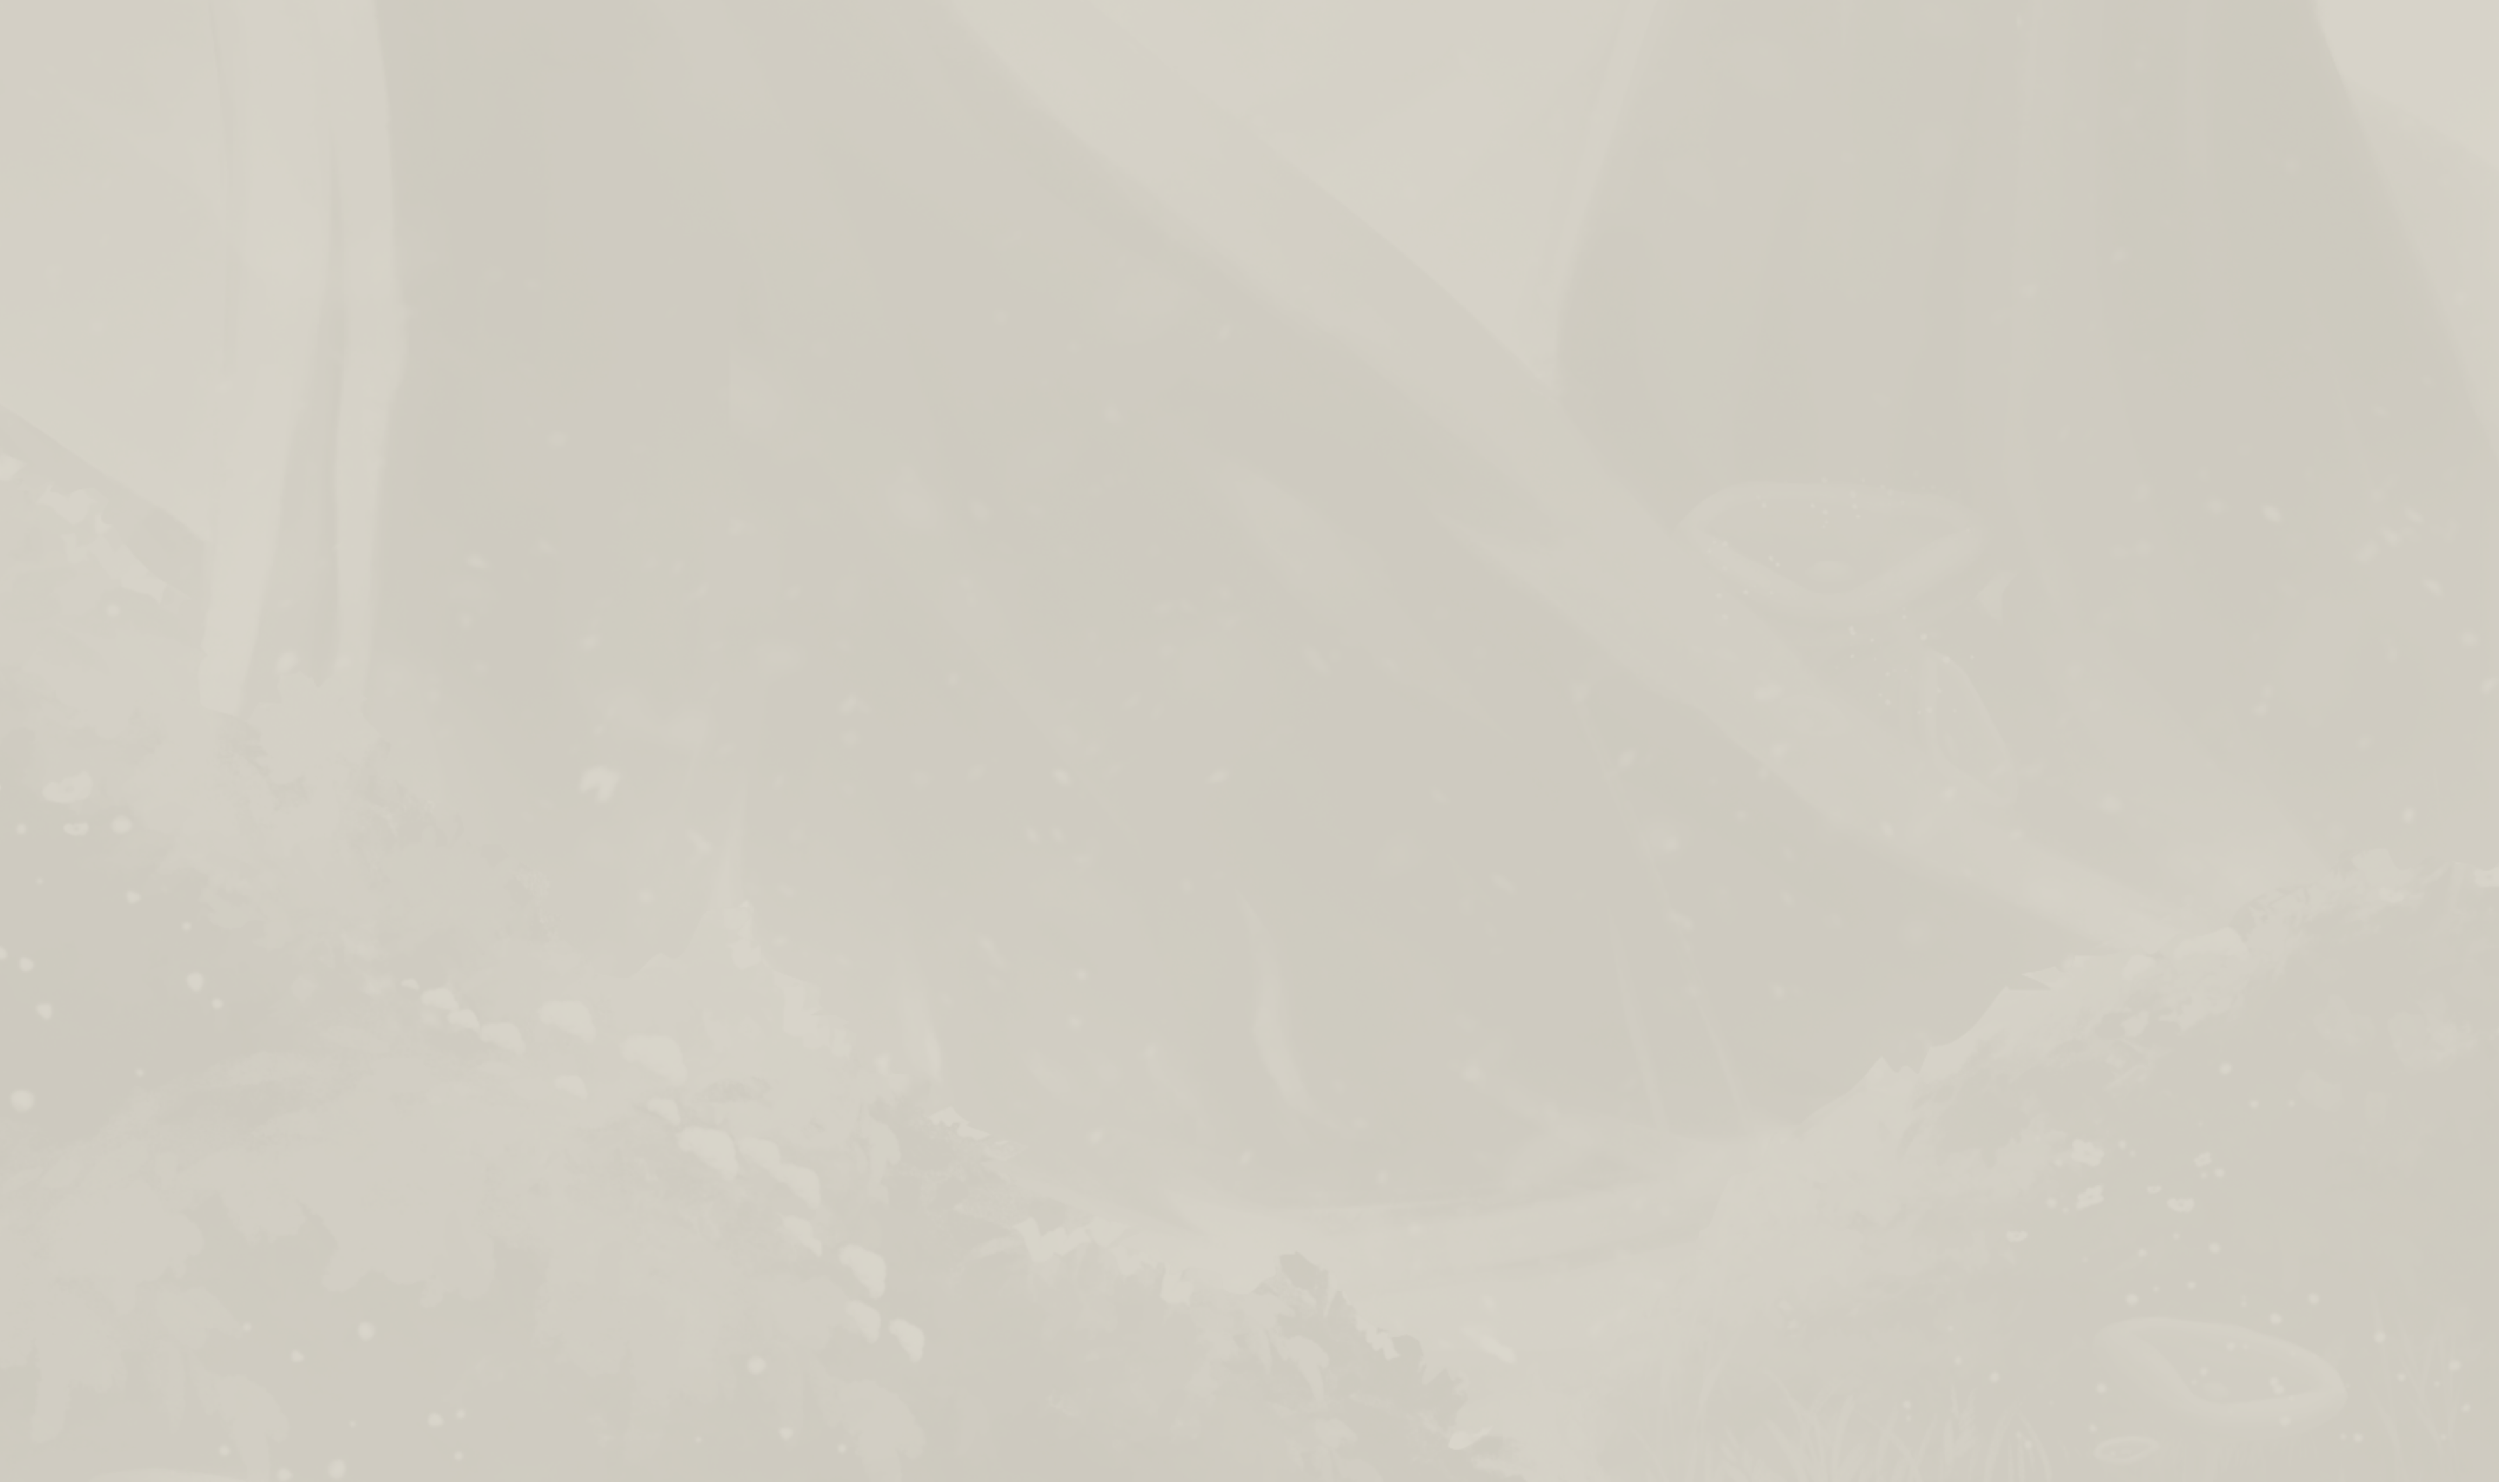
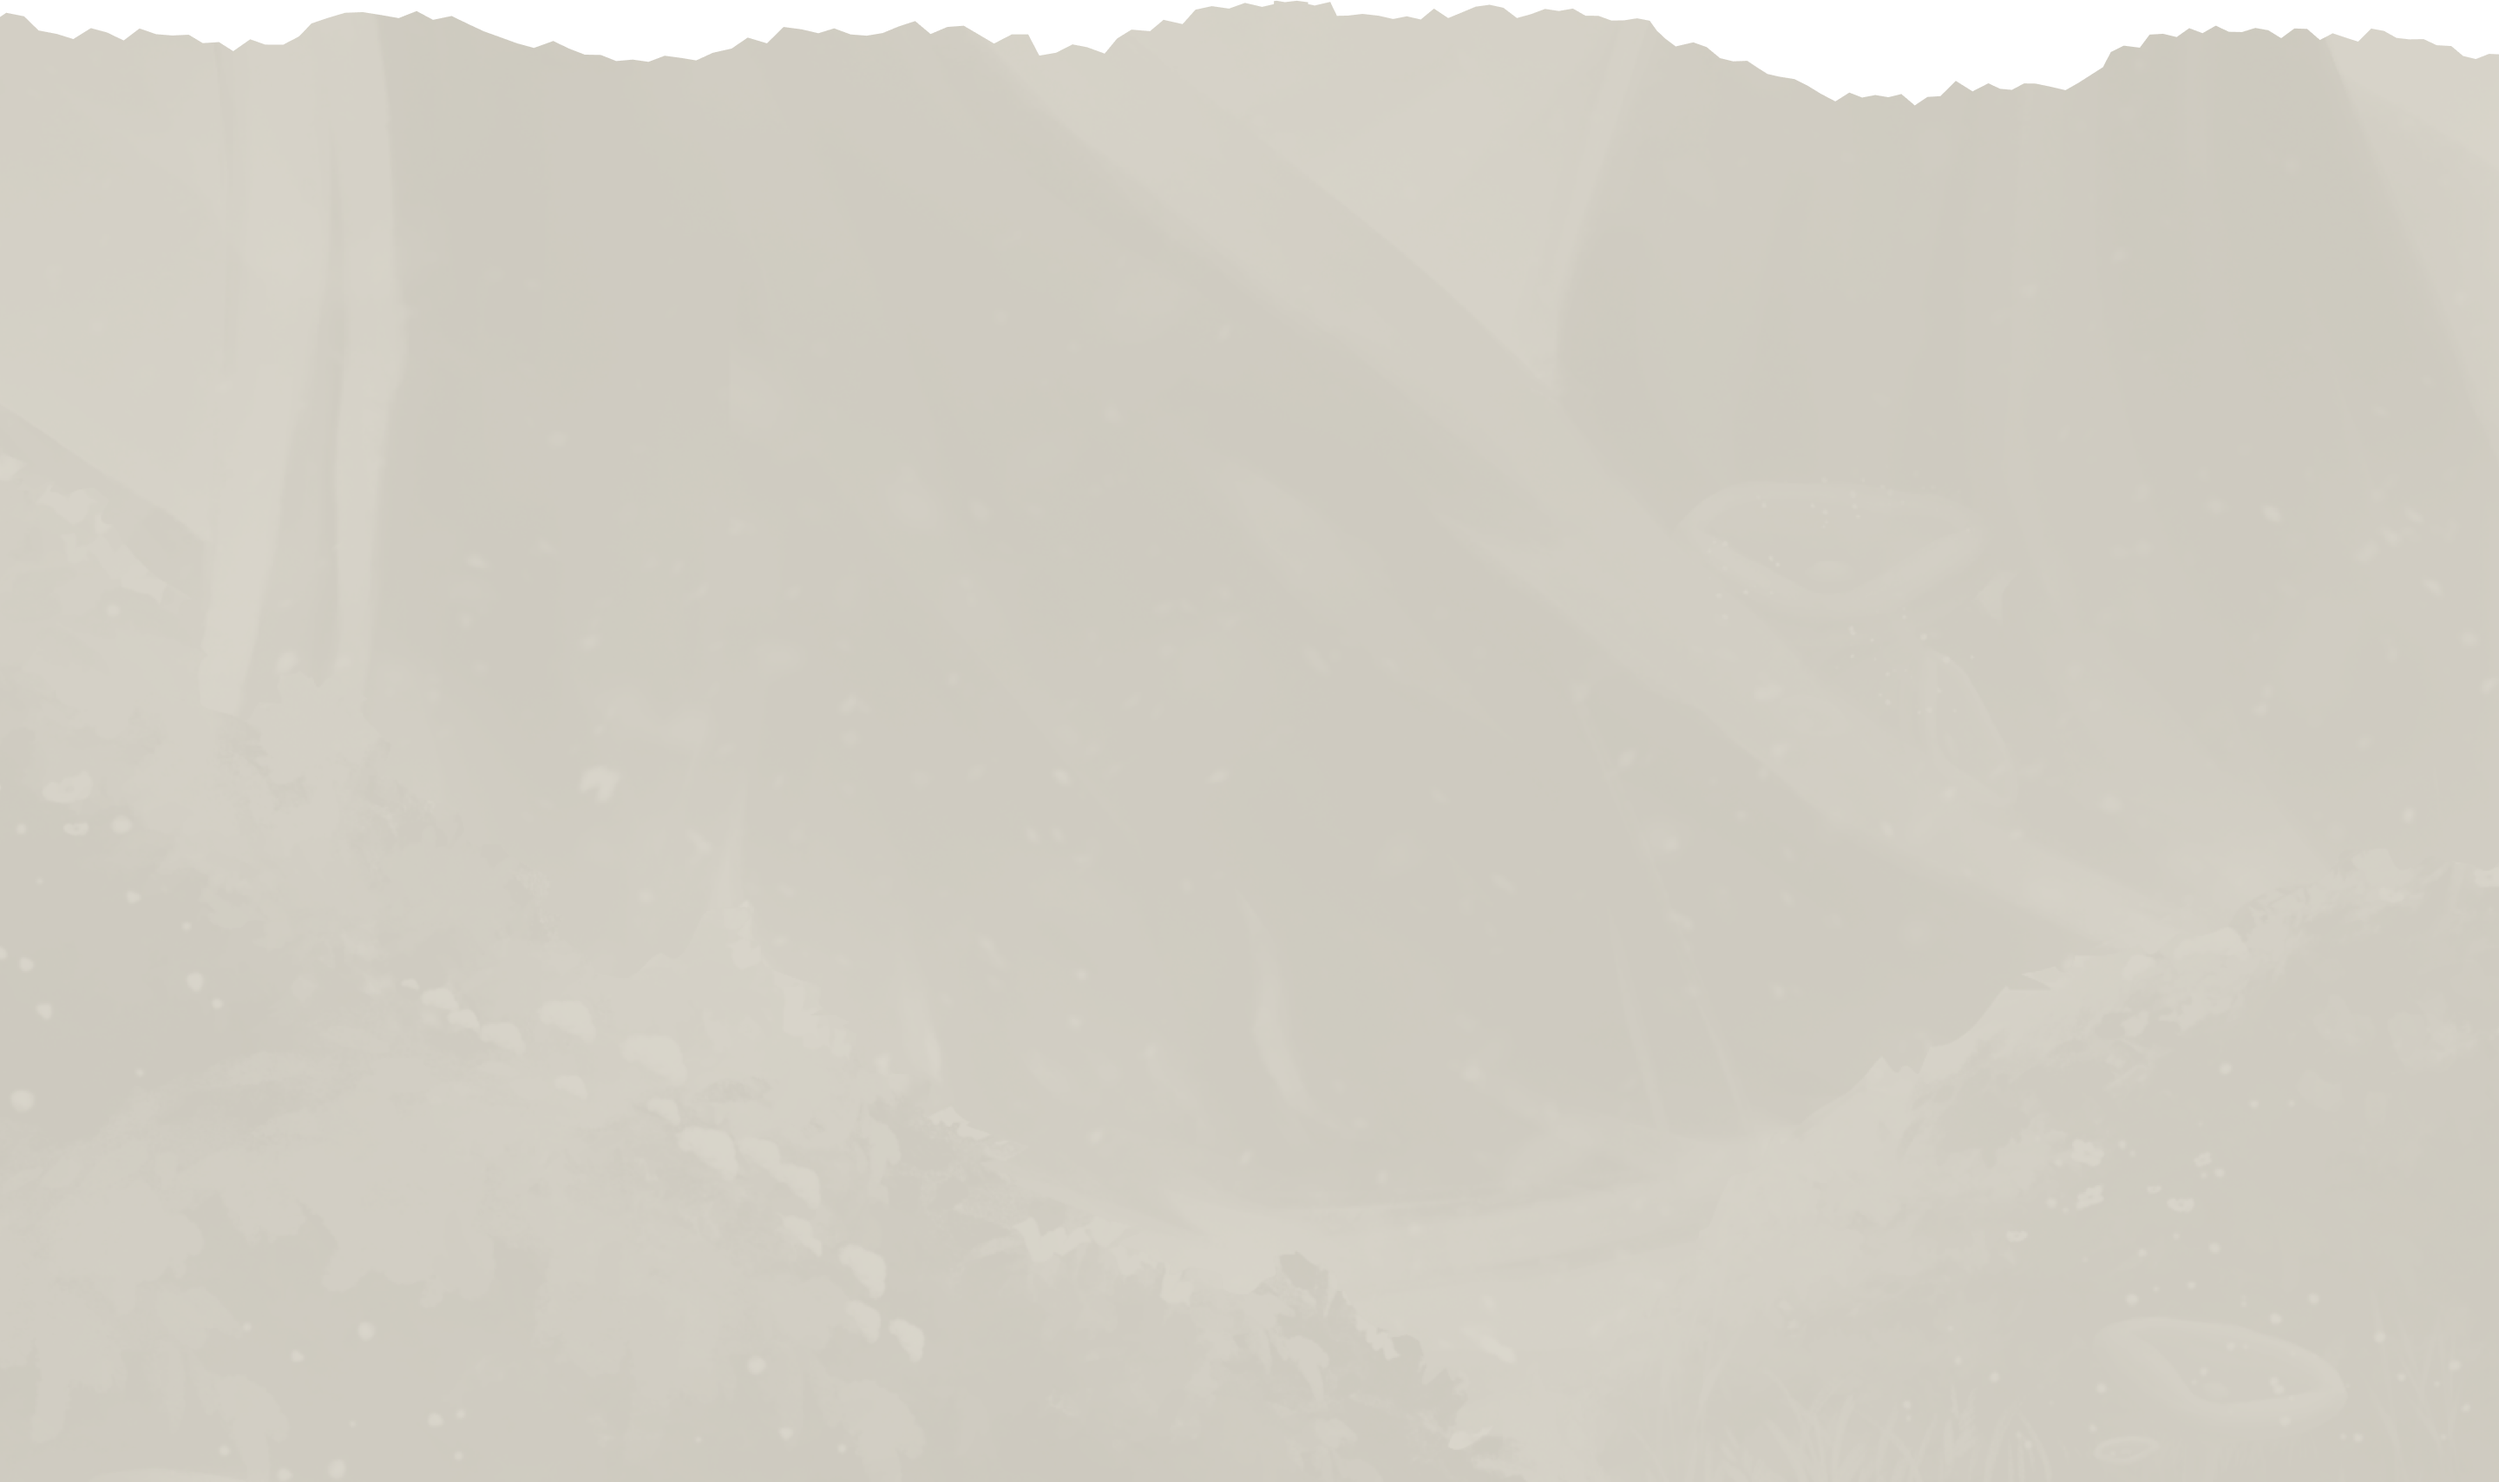
fix bg lore

Changed region(s): [[0.5312, 0.0, 1.0, 0.0931], [0.0, 0.0, 0.5, 0.0621]]

diff --git a/assets/scss/pages/_faction-lore.scss b/assets/scss/pages/_faction-lore.scss
@@ -16,9 +16,9 @@
       // animation: zoomInSm 1.5s $home-anim-cover-delay ease(in-out-quart) both;
       position: relative;
       height: 90vh;
-      background-position:bottom center, bottom, left  20px bottom,  center; // bgbottom/ overlay/ flag/ bg
+      background-position: bottom, left  20px bottom,  center; // bgbottom/ overlay/ flag/ bg
       background-repeat: no-repeat;
-      background-size: 100%,cover, 100% , cover,;
+      background-size:cover, 100% , cover,;
       .middle {
          .wraptitle {
             margin-bottom: 30px;
@@ -36,11 +36,14 @@
    }
 
    .lore-section{
+      z-index: 10;
+      margin-top: -60px;
+      padding-top: 100px;
       position: relative;
       min-height: 100vh;
       background-repeat: no-repeat;
       background-size:cover;
-      background-position: center bottom;
+      background-position: top center;
       .wrapdesc{
          overflow-y: scroll;
          max-height: 466px;

diff --git a/components/pages/faction-lore/CoverFaction.jsx b/components/pages/faction-lore/CoverFaction.jsx
@@ -26,7 +26,7 @@ export default function CoverFaction({ title, description }) {
         <div
             className="cover-bg-wrap d-flex justify-content-center align-items-center"
             style={{
-                backgroundImage: `url(${bgBottomCover}), url(${overlay}), url(${flag}), url(${background})`,
+                backgroundImage: `url(${overlay}), url(${flag}), url(${background})`,
             }}
         >
             <div className="middle d-flex justify-content-center align-items-center flex-column">

diff --git a/components/pages/faction-lore/LoreSection.jsx b/components/pages/faction-lore/LoreSection.jsx
@@ -22,7 +22,7 @@ export default function LoreSection({ title, description, logo }) {
 
     return (
         <section
-            className='lore-section py-main d-flex align-items-center'
+            className='lore-section pb-5 d-flex align-items-center'
             style={{
                 backgroundImage: `url(${loreBg})`,
             }}
